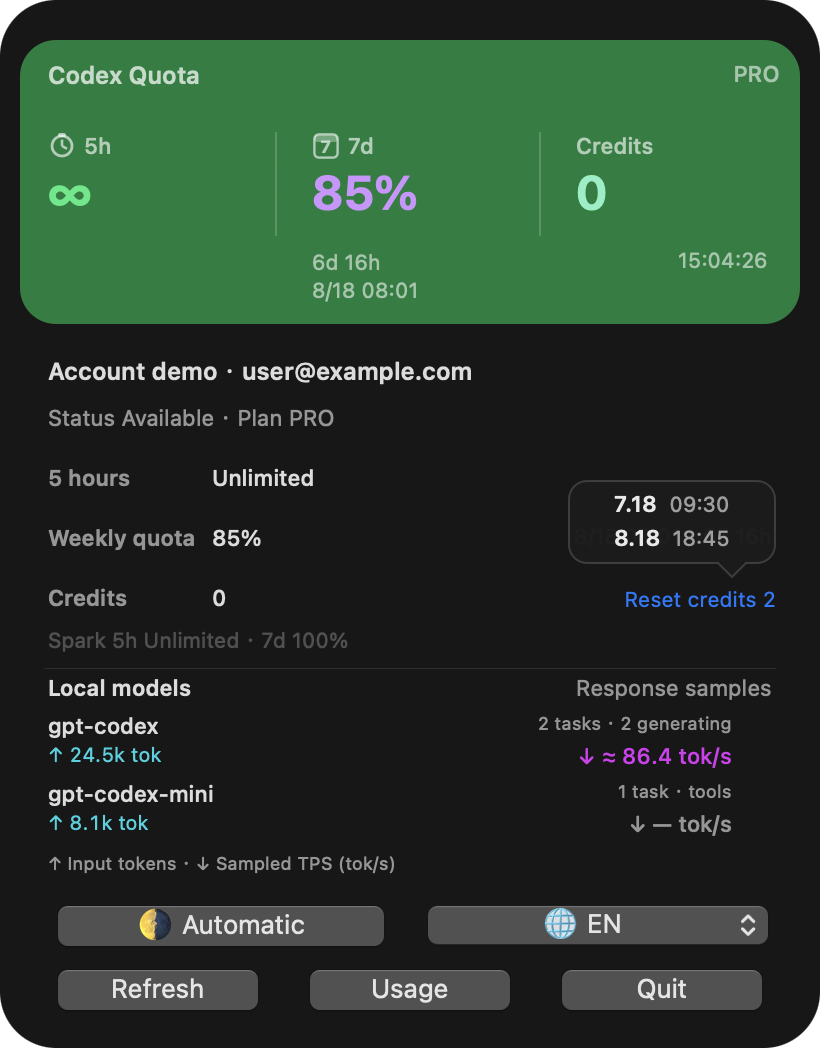
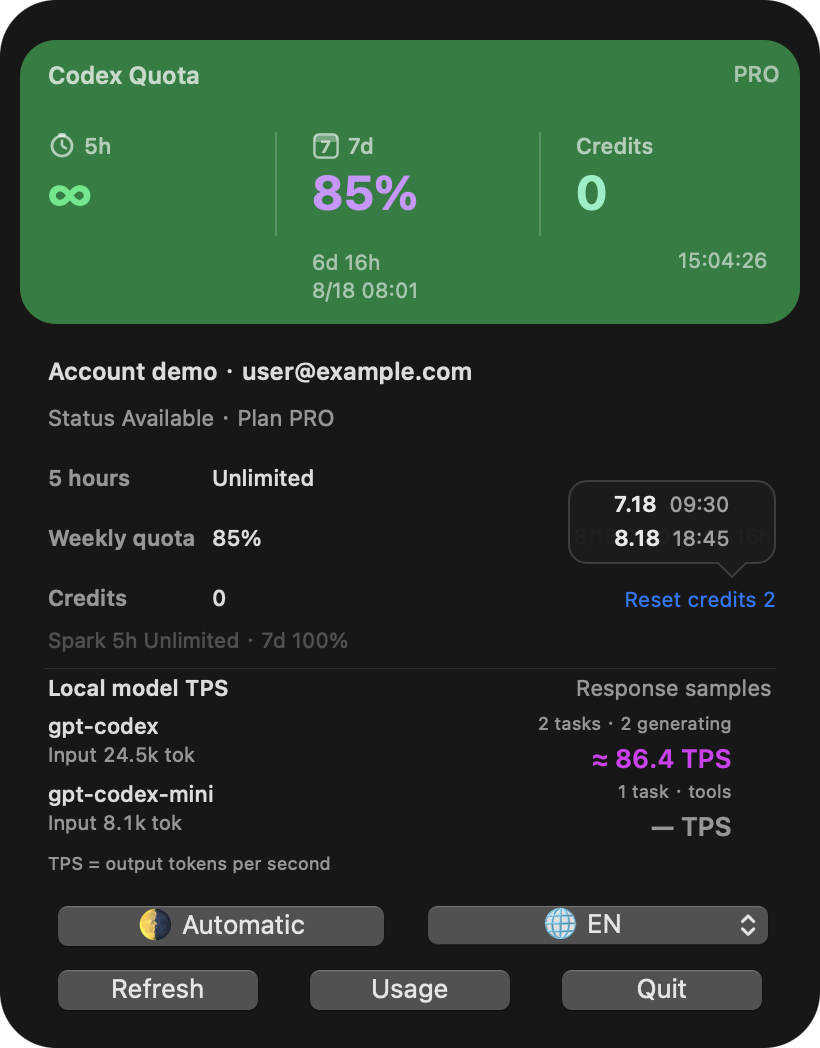
突出模型 TPS 读数并简化输入量展示

diff --git a/codex-balance/Sources/CodexBalance/ModelActivityView.swift b/codex-balance/Sources/CodexBalance/ModelActivityView.swift
@@ -21,11 +21,11 @@ final class ModelActivityView: NSView {
         let separator = NSBox(frame: NSRect(x: 0, y: 107, width: bounds.width, height: 1))
         separator.boxType = .separator
         addSubview(separator)
-        addSubview(field(chinese ? "本机模型" : "Local models", frame: NSRect(x: 0, y: 89, width: 170, height: 16), weight: .semibold))
+        addSubview(field(chinese ? "本机模型 TPS" : "Local model TPS", frame: NSRect(x: 0, y: 89, width: 170, height: 16), weight: .semibold))
         let hint = field(chinese ? "响应采样" : "Response samples", frame: NSRect(x: 180, y: 89, width: bounds.width - 180, height: 16), color: secondary, alignment: .right)
         hint.toolTip = chinese
-            ? "仅观察本机 Codex 会话，不额外调用模型。↑ 每任务最近响应的输入 tokens（含缓存）；↓ 输出 tokens ÷ 模型生成时间（含推理、不含工具等待）。并发同模型相加；不是逐 token 实时测速。15 秒无新样本显示 —；部分任务有数据时标注覆盖数。"
-            : "Observes local Codex sessions without calling a model. ↑ Input tokens of each task's latest response, including cache. ↓ Output tokens / model-item time, including reasoning and excluding tools. Concurrent tasks are summed, not a per-request benchmark. This is not per-token live telemetry. Samples expire after 15s; partial coverage is marked."
+            ? "仅观察本机 Codex 会话，不额外调用模型。输入为每任务最近响应的 token 数（含缓存），不是输入 TPS。TPS = 输出 tokens ÷ 模型生成时间（含推理、不含工具等待）。并发同模型相加；不是逐 token 实时测速。15 秒无新样本显示 —；部分任务有数据时标注覆盖数。"
+            : "Observes local Codex sessions without calling a model. Input is each task's latest response token count, including cache, not input TPS. TPS = output tokens / model-item time, including reasoning and excluding tools. Concurrent tasks are summed, not a per-request benchmark. This is not per-token live telemetry. Samples expire after 15s; partial coverage is marked."
         addSubview(hint)
         samplingHint = hint
         scroll.frame = NSRect(x: 0, y: 19, width: bounds.width, height: 68)
@@ -41,7 +41,7 @@ final class ModelActivityView: NSView {
         empty.textColor = secondary
         empty.alignment = .center
         addSubview(empty)
-        addSubview(field(chinese ? "↑ 输入量 · ↓ 采样 TPS（tok/s）" : "↑ Input tokens · ↓ Sampled TPS (tok/s)", frame: NSRect(x: 0, y: 2, width: bounds.width, height: 14), size: 9, color: secondary))
+        addSubview(field(chinese ? "TPS = 每秒输出 token 数" : "TPS = output tokens per second", frame: NSRect(x: 0, y: 2, width: bounds.width, height: 14), size: 9, color: secondary))
     }
 
     required init?(coder: NSCoder) { fatalError("init(coder:) has not been implemented") }
@@ -82,12 +82,10 @@ final class ModelActivityView: NSView {
         let input = NSTextField(labelWithString: "")
         let output = NSTextField(labelWithString: "")
         let secondary: NSColor
-        let inputTint: NSColor
         let outputTint: NSColor
 
         init(primary: NSColor, secondary: NSColor, light: Bool) {
             self.secondary = secondary
-            inputTint = light ? NSColor(calibratedRed: 0.08, green: 0.45, blue: 0.49, alpha: 1) : .systemTeal
             outputTint = light ? NSColor(calibratedRed: 0.50, green: 0.26, blue: 0.67, alpha: 1) : .systemPurple
             super.init(frame: .zero)
             for field in [name, status, input, output] { addSubview(field) }
@@ -95,7 +93,8 @@ final class ModelActivityView: NSView {
             name.textColor = primary; name.lineBreakMode = .byTruncatingMiddle
             status.font = .systemFont(ofSize: 9); status.textColor = secondary; status.alignment = .right
             input.font = .monospacedDigitSystemFont(ofSize: 10, weight: .regular)
-            output.font = .monospacedDigitSystemFont(ofSize: 11, weight: .medium)
+            input.textColor = secondary; input.alignment = .left
+            output.font = .monospacedDigitSystemFont(ofSize: 13, weight: .semibold)
             output.alignment = .right
         }
 
@@ -123,12 +122,12 @@ final class ModelActivityView: NSView {
             }
             status.toolTip = status.stringValue
             let inputCoverage = row.inputTasks > 0 && row.inputTasks < row.tasks ? " [\(row.inputTasks)/\(row.tasks)]" : ""
-            input.stringValue = "↑ " + (row.inputTokens.map(Self.compact) ?? "—") + inputCoverage + " tok"
-            input.toolTip = row.inputTokens.map { "\($0) input tokens" }
-            input.textColor = row.inputTokens == nil ? secondary : inputTint
+            input.stringValue = (chinese ? "输入 " : "Input ") + (row.inputTokens.map(Self.compact) ?? "—") + " tok" + inputCoverage
+            input.toolTip = row.inputTokens.map { chinese ? "\($0) 个输入 token（非 TPS）" : "\($0) input tokens (not TPS)" }
             var value = row.outputTPS.map { "≈ " + String(format: "%.1f", $0) } ?? "—"
+            value += " TPS"
             if row.measuredTasks > 0, row.measuredTasks < row.tasks { value += " [\(row.measuredTasks)/\(row.tasks)]" }
-            output.stringValue = "↓ " + value + " tok/s"
+            output.stringValue = value
             output.textColor = row.outputTPS == nil || row.generating == 0 ? secondary : outputTint
             needsLayout = true
         }

diff --git a/tests/model-activity-panel.swift b/tests/model-activity-panel.swift
@@ -8,8 +8,13 @@ try FileManager.default.createDirectory(at: output, withIntermediateDirectories:
 private let sampleTarget = ReadmeSampleActionTarget()
 let sampleAction = #selector(ReadmeSampleActionTarget.ignore(_:))
 var checks = 0
+let chinese = L10n.shared.effectiveCode.hasPrefix("zh")
 @MainActor func check(_ passed: @autoclosure () -> Bool, _ text: String) {
-    precondition(passed(), text); checks += 1
+    guard passed() else {
+        FileHandle.standardError.write(Data("FAIL: \(text)\n".utf8))
+        preconditionFailure(text)
+    }
+    checks += 1
 }
 @MainActor func allViews(_ view: NSView) -> [NSView] { [view] + view.subviews.flatMap(allViews) }
 
@@ -36,12 +41,23 @@ for mode in [CardThemeMode.dark, .light] {
     check(scroll.documentView!.frame.height == 272, "all models are scrollable, not capped to two")
     check(scroll.documentView!.subviews.count == 8, "eight rows retained")
     check(bubble.frame.minY >= 234 && activity.frame.maxY < 196, "coupon anchor and model panel do not overlap")
+    let labels = allViews(activity).compactMap { $0 as? NSTextField }
+    let tps = labels.first { $0.stringValue == "≈ 123.4 TPS [2/3]" }!
+    let input = labels.first { $0.stringValue == (chinese ? "输入 24.0k tok [2/3]" : "Input 24.0k tok [2/3]") }!
+    check(tps.font!.pointSize == 13 && tps.font!.pointSize > input.font!.pointSize, "TPS is the primary readout, not the input amount")
+    check(tps.alignment == .right && input.alignment == .left, "primary and secondary values have stable alignment")
+    check(labels.contains { $0.stringValue == "— TPS" }, "missing measurement keeps an explicit TPS unit, not fake zero")
+    check(!labels.contains { $0.stringValue.contains("↑") || $0.stringValue.contains("↓") || $0.stringValue.contains("tok/s") }, "readout does not require decoding traffic arrows or a different rate unit")
+    for field in [tps, input] {
+        check(field.cell!.cellSize.width <= field.bounds.width && field.cell!.cellSize.height <= field.bounds.height, "\(field.stringValue) fits without clipping: \(field.cell!.cellSize) in \(field.bounds.size)")
+    }
     try writeReadmeSamplePNG(view: root, to: output.appendingPathComponent("many-\(mode.rawValue).png"))
     controller.updateModelActivity(ModelActivitySnapshot(availability: .ready, rows: samples))
     check(rowIdentities == allViews(activity).filter { $0 is NSTextField }.map(ObjectIdentifier.init), "unchanged update reuses labels")
     var changed = samples
     changed[0] = ModelActivityRow(model: samples[0].model, tasks: 4, generating: 3, inputTokens: 48200, inputTasks: 4, outputTPS: 198.2, measuredTasks: 4)
     controller.updateModelActivity(ModelActivitySnapshot(availability: .ready, rows: changed))
+    check(allViews(activity).compactMap { $0 as? NSTextField }.contains { $0.stringValue == "≈ 198.2 TPS" }, "full coverage omits the partial-coverage suffix")
     check(rowIdentities == allViews(activity).filter { $0 is NSTextField }.map(ObjectIdentifier.init), "changed values do not recreate row labels")
     check(root.subviews.contains { $0 === card } && root.subviews.contains { $0 === bubble }, "updating TPS preserves card animation and open bubble")
     scroll.documentView!.scroll(NSPoint(x: 0, y: 206))
@@ -56,7 +72,7 @@ for mode in [CardThemeMode.dark, .light] {
         ModelActivityRow(model: "quiet-model", tasks: 3, generating: 0, inputTokens: nil, inputTasks: 0,
             outputTPS: nil, measuredTasks: 0, quietTasks: 3)
     ]))
-    check(allViews(activity).compactMap { $0 as? NSTextField }.contains { $0.stringValue.contains("quiet") }, "quiet tasks are not called generating or complete")
+    check(allViews(activity).compactMap { $0 as? NSTextField }.contains { $0.stringValue.contains(chinese ? "等待更新" : "quiet") }, "quiet tasks are not called generating or complete")
     try writeReadmeSamplePNG(view: root, to: output.appendingPathComponent("quiet-\(mode.rawValue).png"))
 }
-print("model-activity-panel: \(checks) assertions passed")
+print("model-activity-panel (\(L10n.shared.effectiveCode)): \(checks) assertions passed")

diff --git a/README.md b/README.md
@@ -82,7 +82,7 @@ Red and yellow are independent, so both can be lit when one result is waiting wh
 
 #### Local model activity
 
-The popover groups observed open Codex App/CLI sessions in the current `CODEX_HOME` by model, including subagents. **↑ is input tokens, not input TPS; ↓ is approximate response-sampled output tokens/second, not a live per-token counter.** Same-model concurrent tasks are summed; `[1/3]` means only one of three tasks has a fresh measurement for that column. Tool waits are excluded from model-item time, reasoning is counted once, missing timing shows `—`, and samples expire after 15 seconds. An already observed open turn stays visible as **quiet / waiting for updates** after 75 seconds of silence, not falsely generating or finished; other AI apps and separate Codex homes are not monitored. See [measurement details and limitations](docs/codex-balance.md#local-model-activity).
+The popover groups observed open Codex App/CLI sessions in the current `CODEX_HOME` by model, including subagents. **The prominent readout, such as `≈ 86.4 TPS`, is approximate response-sampled output tokens per second, not a live per-token counter.** The smaller `Input` amount is input tokens, not input TPS. Same-model concurrent tasks are summed; `[1/3]` means only one of three tasks has a fresh measurement for that column. Tool waits are excluded from model-item time, reasoning is counted once, missing timing shows `— TPS`, and samples expire after 15 seconds. An already observed open turn stays visible as **quiet / waiting for updates** after 75 seconds of silence, not falsely generating or finished; other AI apps and separate Codex homes are not monitored. See [measurement details and limitations](docs/codex-balance.md#local-model-activity).
 
 This feature is available in current `main` / source builds; the `v2026.10.12` prebuilt release predates it.
 
@@ -354,7 +354,7 @@ Codex 会把当前登录状态保存在本机，但多账号或 API 中转用户
 
 #### 本机模型活动
 
-面板按模型汇总当前 `CODEX_HOME` 下已观察到的开放 Codex App/CLI 会话，包含 subagent。**↑ 表示输入 token 数，不是输入 TPS；↓ 是近似的响应采样输出 tokens/秒，不是逐 token 实时计数。** 同模型并发任务相加，`[1/3]` 表示该列在三个任务中仅一个有新鲜的有效测量。模型时间不包含工具等待，推理 token 只计一次；缺少时间数据显示 `—`，样本 15 秒后失效。已观察到的开放 turn 在 75 秒没有新日志后保留为**等待更新**，不会被误标为正在生成或已完成；不监测其他 AI 应用或独立 Codex Home。详见[计算口径与限制](docs/codex-balance.md#local-model-activity)。
+面板按模型汇总当前 `CODEX_HOME` 下已观察到的开放 Codex App/CLI 会话，包含 subagent。**大号读数直接显示 `≈ 86.4 TPS`，表示近似的响应采样输出 token 数/秒，不是逐 token 实时计数。** 较小的“输入”是输入 token 量，不是输入 TPS。同模型并发任务相加，`[1/3]` 表示该列在三个任务中仅一个有新鲜的有效测量。模型时间不包含工具等待，推理 token 只计一次；缺少时间数据显示 `— TPS`，样本 15 秒后失效。已观察到的开放 turn 在 75 秒没有新日志后保留为**等待更新**，不会被误标为正在生成或已完成；不监测其他 AI 应用或独立 Codex Home。详见[计算口径与限制](docs/codex-balance.md#local-model-activity)。
 
 此功能已在当前 `main` / 源码构建中提供；`v2026.10.12` 预编译 Release 尚未包含。
 

diff --git a/docs/codex-balance.md b/docs/codex-balance.md
@@ -80,15 +80,15 @@ For deterministic integration checks, `~/Library/Application Support/CodexBalanc
 
 ## Local model activity
 
-The popover groups active Codex App/CLI tasks in the current `CODEX_HOME` by model, including subagents. Two rows fit in the fixed-height area; additional models scroll rather than being omitted. Value updates reuse the existing rows and preserve the quota card, optional animation, reset-credit bubble, and footer controls.
+The popover groups active Codex App/CLI tasks in the current `CODEX_HOME` by model, including subagents. Each model's primary readout uses an explicit TPS unit, such as **`≈ 86.4 TPS`**; the input-token amount is secondary. TPS means output tokens per second. Two rows fit in the fixed-height area; additional models scroll rather than being omitted. Value updates reuse the existing rows and preserve the quota card, optional animation, reset-credit bubble, and footer controls.
 
 | Display | Meaning |
 | --- | --- |
 | Task count / generating / tools / quiet | Observed open local turns, classified from lifecycle and tool-call metadata. Silence beyond 75 seconds becomes quiet/unknown, not proof of continued generation or completion. This is activity detection, not proof of an open server stream. |
-| ↑ Input `tok` | Sum of each task's most recent response input-token count, including its cached subset. It is **not** input TPS, prefill speed, a live upload counter, or account billing usage. |
-| ↓ ≈ Output `tok/s` | For each valid response, `output_tokens / union(model-item intervals in seconds)`. Intervals come from `event_msg.item_completed.started_at_ms/completed_at_ms` for Reasoning, AgentMessage, and Plan; tool execution is not part of those intervals. Output already includes reasoning; it is never added again. Same-model concurrent tasks' recent rates are summed. |
+| Input `tok` | Sum of each task's most recent response input-token count, including its cached subset. It is **not** input TPS, prefill speed, a live upload counter, or account billing usage. |
+| `≈ 86.4 TPS` | For each valid response, `output_tokens / union(model-item intervals in seconds)`. Intervals come from `event_msg.item_completed.started_at_ms/completed_at_ms` for Reasoning, AgentMessage, and Plan; tool execution is not part of those intervals. Output already includes reasoning; it is never added again. Same-model concurrent tasks' recent rates are summed. |
 | `[measured/tasks]` | Only this many tasks have a fresh valid measurement for that input/output column. A partial aggregate is not presented as full coverage. |
-| `—` | No fresh sample, missing/zero timing, incomplete initial attachment, skipped oversized/malformed records, or unsupported log shape. No guessed rate or fake zero is substituted. |
+| `— TPS` | No fresh output sample, missing/zero timing, incomplete initial attachment, skipped oversized/malformed records, or unsupported log shape. No guessed rate or fake zero is substituted. |
 
 Codex settles counts after a response rather than continuously emitting authoritative per-token counts to rollouts. This is **response-sampled, approximate throughput**, not instantaneous wire/decode speed and not a cross-model benchmark. Item timings can cover only the observable portion of generation; transport latency, invisible model work, and tool-call serialization are not reliably measurable here. Samples expire after 15 seconds and are dimmed during observed tool waits. A generation can be active while the rate is still `—`.
 
